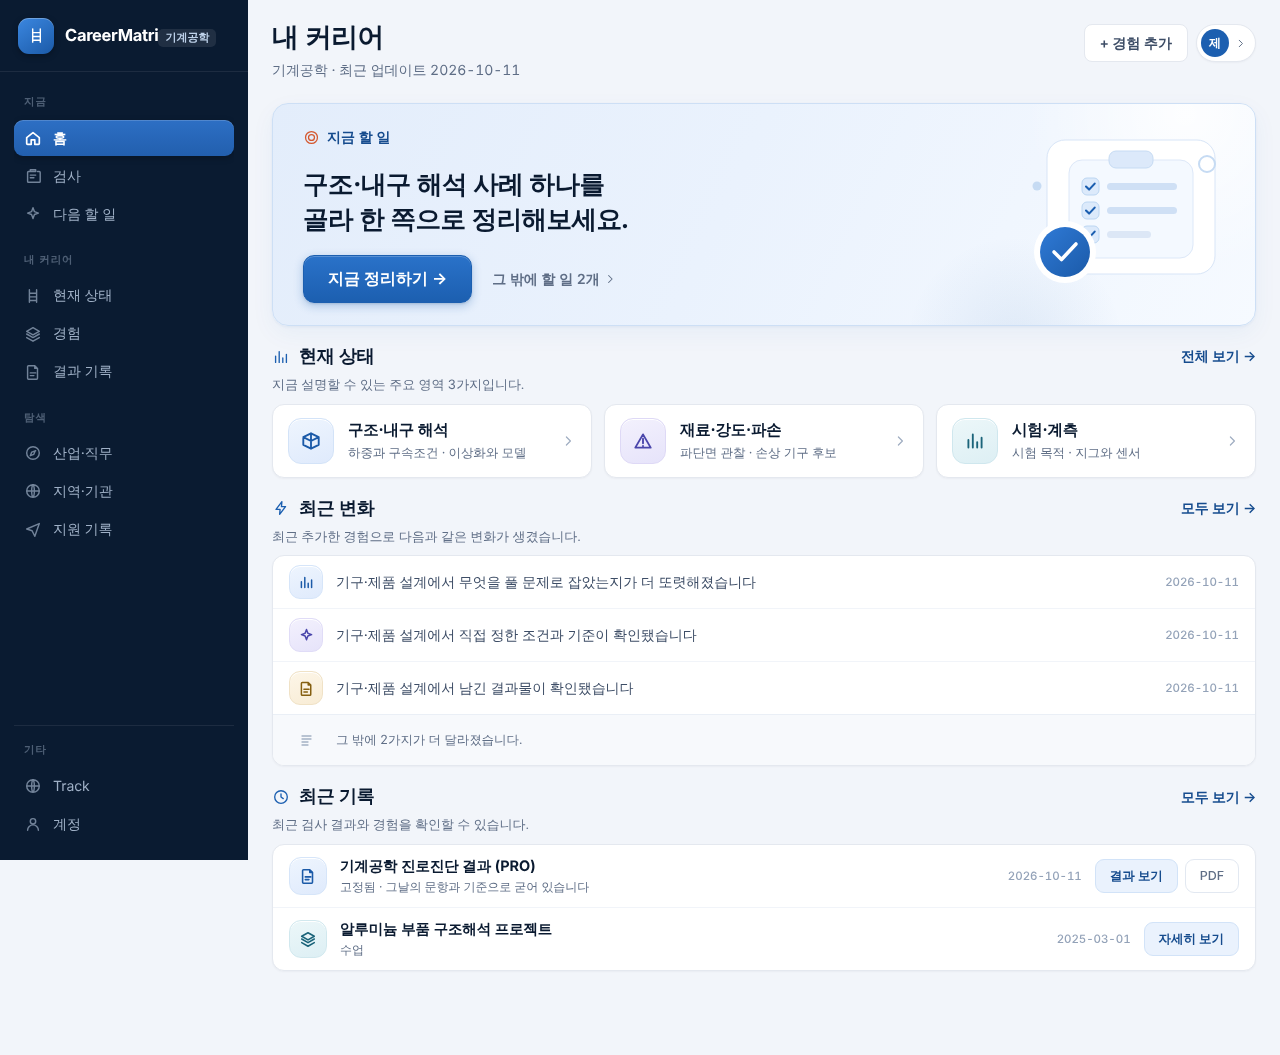
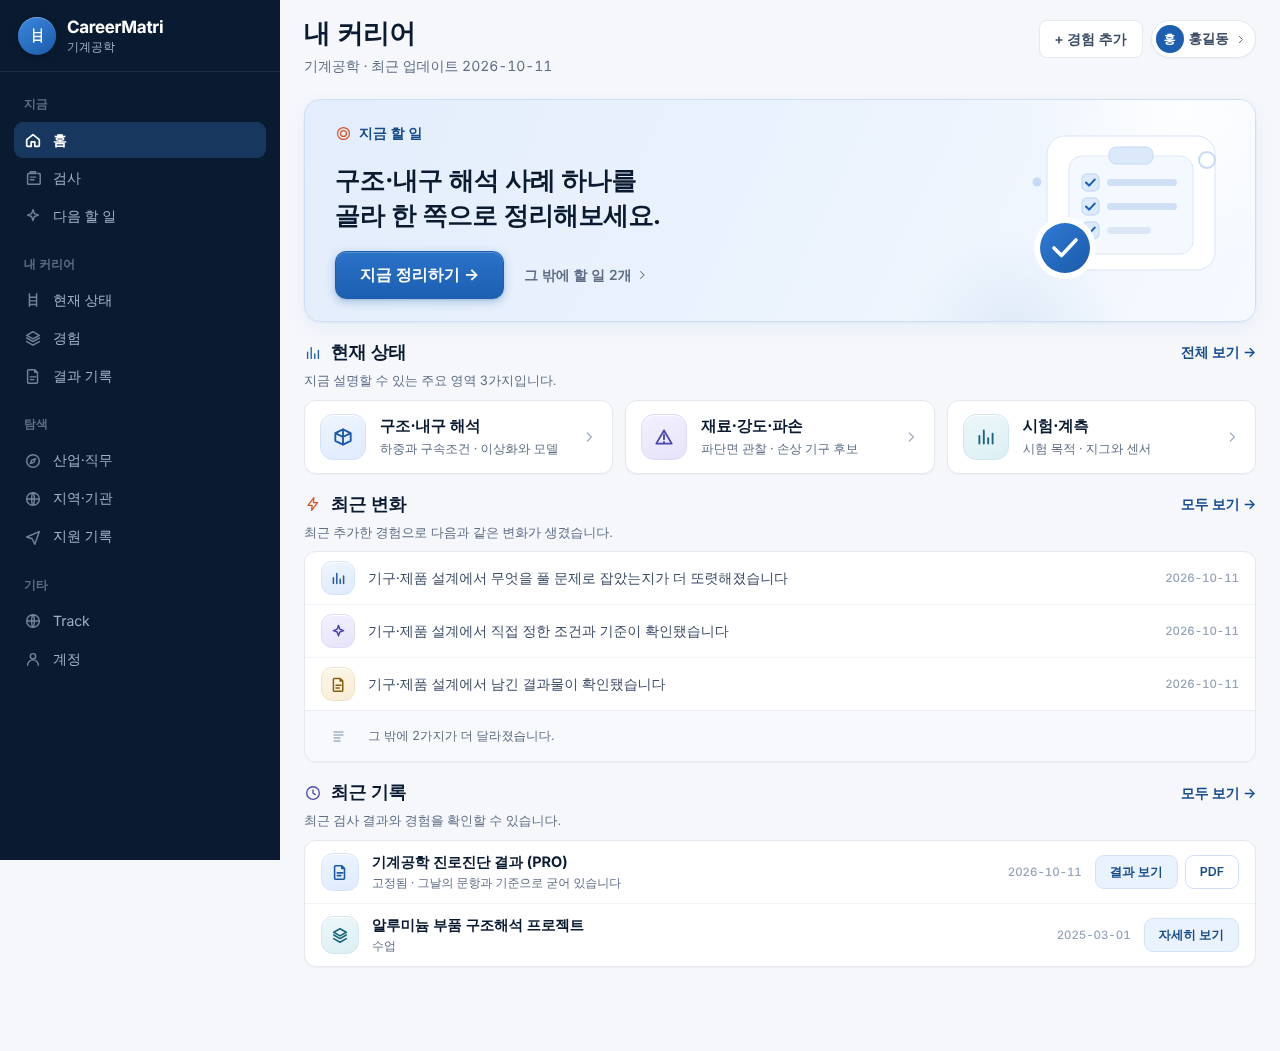
목표 화면과 나란히 놓고 남은 차이 여덟을 걷는다
받은 Reference Desktop 과 현재 Desktop 1440x900 과 Mobile 390 세 장을
나란히 놓고 §1~§19 를 판정한 뒤, PARTIAL/FAIL 로 적힌 자리만 고쳤다.
MATCH 는 한 줄도 건드리지 않았다. 기능·데이터·route·DB 는 그대로다.

- 띠 폭 248 -> 280 (목표는 창 너비의 22% 쯤인데 17% 였다)
- 브랜드 표시를 둥근 사각에서 원으로
- 전공을 알약에서 평범한 작은 글자로. 알약은 상태나 등급을 적는
  모양이라 전공 이름이 거기 들어가면 고를 수 있는 값으로 읽힌다
- 묶음 머리의 대문자 변환과 넓은 자간을 걷었다. 한글에서 대문자
  변환은 아무 일도 하지 않고 넓은 자간만 장식으로 남는다
- 고른 줄을 밝은 파랑 그라디언트에서 한 단 밝은 남색 면으로 바꾸고
  왼쪽 금을 걷었다. 강조색은 누르는 자리에만 둔다
- 맨 아래 묶음을 바닥에 붙이던 규칙과 그 위의 금을 걷었다
- 계정 한 자리에 본인 이름이 선다 (1100 아래에서는 첫 글자만)
- 절 머리의 표시를 셋으로 갈랐다. 셋이 같은 파랑이면 절이 한 묶음으로
  읽힌다. 색은 뜻을 갖지 않는다

그 밖에 바탕을 한 단 밝게, 쪽 머리 위 여백 20 -> 16, 줄 끝의 PDF 를
회색 테에서 옅은 파란 테로, 손전화 Hero 그림 124 -> 106.

찍는 바탕이 만드는 계정 이름이 사람 화면에 그대로 서므로 시험용
이름으로 바꿨다. 목표 화면의 검색칸과 알림 종과 브랜드 펼침은 없는
기능이라 옮기지 않았고, 손전화 아래 띠의 금은 색으로만 말하지 않으려고
남겼다.

판본은 작업공간만 CAREERMATRI_WORKSPACE_UI_V18. 측정 동결과 검사 화면
동결과 결과지 동결은 기록을 다시 적지 않은 채로 통과한다.

Claude-Session: https://claude.ai/code/session_01VsLgPeSsVvvXWmRdQnrgMy

diff --git a/pca-platform/src/app/me/platform.css b/pca-platform/src/app/me/platform.css
@@ -12,7 +12,7 @@
  */
 
 .cm {
-  --cm-rail: 248px;
+  --cm-rail: 280px;
   --cm-max: 1120px;
   --cm-tab: 56px;          /* 손전화 아래 띠의 높이 */
   /**
@@ -38,7 +38,7 @@
    * 바탕을 `--sf-bg` 보다 한 단 더 파랗게 내리면 그 위의 흰 카드가
    * 떠 보이고, 그림자를 거의 쓰지 않고도 깊이가 생긴다.
    */
-  --cm-canvas-bg: #f2f5fa;
+  --cm-canvas-bg: #f5f7fb;
   --cm-card-sh: 0 1px 2px rgba(10, 27, 49, .04);
   min-height: 100%;
   background: var(--cm-canvas-bg);
@@ -90,7 +90,7 @@
    납작한 사각형이 아니라 눌러 만든 조각처럼 선다 */
 .cm-rail-mark {
   display: inline-flex; align-items: center; justify-content: center;
-  width: 36px; height: 36px; flex: 0 0 auto; border-radius: 11px;
+  width: 38px; height: 38px; flex: 0 0 auto; border-radius: 50%;
   background: linear-gradient(145deg, #3b87e0 0%, #1b5aa8 100%);
   color: #fff;
   box-shadow:
@@ -100,19 +100,20 @@
 .cm-rail-mark > svg { width: 19px; height: 19px; }
 .cm-rail-name {
   display: block; min-width: 0;
-  font-weight: 700; font-size: 16.5px; letter-spacing: -.02em;
   color: var(--cm-rail-ink-on); line-height: 1.2;
 }
+.cm-rail-name > b { font-weight: 700; font-size: 17px; letter-spacing: -.02em; }
 /* **지금 어느 전공인지를 띠에 둔다.** 전공이 늘면 이 자리가 고르는
    자리가 된다. 없으면 사용자가 CareerMatri 를 검사 한 벌로 읽는다.
    **이름보다 한 단 아래다**: 둘이 같은 무게면 무엇이 제품 이름인지
    읽히지 않는다 */
+/* **알약으로 두지 않는다**(목표 화면). 알약은 상태나 등급을 적는
+   모양이라 전공 이름이 거기 들어가면 고를 수 있는 값으로 읽힌다.
+   이름 아래에 한 단 작고 옅은 글자로 선다 */
 .cm-rail-name small {
-  display: inline-flex; align-items: center;
-  margin-top: 5px; padding: 2px 7px; border-radius: 5px;
-  background: rgba(255, 255, 255, .09);
-  font-weight: 600; font-size: 11px; letter-spacing: 0;
-  color: #bed2ea;
+  display: block; margin-top: 3px;
+  font-weight: 500; font-size: 12px; letter-spacing: 0;
+  color: var(--cm-rail-ink);
 }
 .cm-rail-scroll {
   flex: 1 1 auto; min-height: 0; overflow-y: auto;
@@ -122,18 +123,20 @@
 /* 마지막 묶음(`기타`)은 **아래로 내린다**(규격 §1). Track 과 계정은
    날마다 누르는 줄이 아니라, 위의 세 묶음과 떨어져 서야 띠가 쌓인
    목록이 아니라 자리가 정해진 틀로 읽힌다 */
-.cm-rail-scroll > .cm-group:last-child {
-  margin-top: auto; padding-top: 16px;
-  border-top: 1px solid var(--cm-rail-line);
-}
+/* **맨 아래 묶음을 바닥에 붙이지 않는다**(목표 화면). 네 묶음이 위에서
+   아래로 이어 서고 남는 자리는 비운다. 바닥에 붙이고 금을 그으면 그
+   둘이 메뉴가 아니라 바닥 도구막대로 읽힌다 */
 
 /* **묶음 이름이 곧 section context 다.** 평평한 아홉 줄은 어디가
    `내 커리어` 인지 읽히지 않는다 */
 .cm-group { display: flex; flex-direction: column; gap: 2px; }
+/* 묶음 머리. **한글을 영문 머리글처럼 늘리지 않는다**(목표 화면):
+   대문자 변환은 한글에서 아무 일도 하지 않고 넓은 자간만 남아, 묶음
+   이름이 읽히는 말이 아니라 장식 띠가 된다 */
 .cm-group > h2 {
   margin: 0 0 7px; padding: 0 10px;
-  font-size: 10.5px; font-weight: 700; letter-spacing: .09em;
-  color: var(--cm-rail-ink); opacity: .45; text-transform: uppercase;
+  font-size: 12px; font-weight: 600; letter-spacing: 0;
+  color: var(--cm-rail-ink); opacity: .55;
 }
 
 /* **빽빽하게 둔다**(규격 §21). 아홉 줄이 한 뼘 안에 들어와야 눈이
@@ -159,18 +162,15 @@ a.cm-nav small {
 a.cm-nav:hover { background: rgba(255, 255, 255, .07); color: var(--cm-rail-ink-on); }
 /* 고른 줄(규격 §1). **면과 글자와 왼쪽 금 셋이 함께 들어간다**: 면만
    두었더니 어두운 바탕에서 그 줄이 눌려 있다는 것이 멀리서 안 읽혔다 */
+/* 고른 줄. **띠 안에서 한 단 밝은 면 하나다**(목표 화면): 강조색으로
+   칠하면 그 줄이 쪽에서 가장 센 자리가 되어 본문의 주된 단추와 겨룬다.
+   강조색은 누르는 자리에만 둔다 */
 a.cm-nav.is-on {
   position: relative;
-  background: linear-gradient(180deg, #2d6fc4 0%, #225fae 100%);
-  color: #fff; font-weight: 600;
-  box-shadow:
-    inset 0 1px 0 rgba(255, 255, 255, .17),
-    0 2px 6px rgba(0, 0, 0, .26);
+  background: #17375f; color: #fff; font-weight: 600;
 }
-a.cm-nav.is-on::before {
-  content: ""; position: absolute; left: -10px; top: 8px; bottom: 8px;
-  width: 3px; border-radius: 0 3px 3px 0; background: #6ea8ef;
-}
+/* **왼쪽 금을 두지 않는다**(목표 화면). 면 하나로 충분하고, 금까지
+   더하면 고른 줄이 둘로 말한다 */
 a.cm-nav.is-on > svg { opacity: 1; stroke-width: 1.9; }
 a.cm-nav.is-on small { color: #fff; opacity: .85; }
 a.cm-nav:focus-visible { outline: 2px solid #fff; outline-offset: 2px; }
@@ -203,12 +203,19 @@ a.cm-nav:focus-visible { outline: 2px solid #fff; outline-offset: 2px; }
   background: var(--sf-accent); color: #fff;
   font-size: var(--ui-t-cap); font-weight: 700;
 }
+/* 이름. **좁은 화면에서는 첫 글자만 남는다**: 1100 아래에서 이름이
+   서면 쪽 머리의 단추를 밀어낸다 */
+.cm-util-me > b {
+  font-size: 13.5px; font-weight: 600; color: var(--sf-ink-2);
+  max-width: 10ch; overflow: hidden; text-overflow: ellipsis;
+}
+@media (max-width: 1100px) { .cm-util-me > b { display: none; } }
 .cm-util-me > svg { color: var(--sf-ink-3); }
 @media (max-width: 900px) { .cm-utilrow { display: none; } }
 
 .cm-canvas {
   flex: 1 1 auto;
-  padding: 20px 24px calc(28px + var(--cm-tab));
+  padding: 16px 24px calc(28px + var(--cm-tab));
 }
 .cm-in { max-width: var(--cm-max); margin: 0 auto; }
 /* 적는 자리(규격 §17). 작업공간 1100 은 견주는 폭이고 폼은 그 폭에서
@@ -265,7 +272,12 @@ a.cm-nav:focus-visible { outline: 2px solid #fff; outline-offset: 2px; }
   margin: 16px 0 0; font-size: 18px; font-weight: 700; color: var(--sf-ink);
   letter-spacing: -.015em;
 }
+/* 절 머리의 표시. **셋이 같은 파랑이면 절이 한 묶음으로 읽힌다**
+   (목표 화면은 절마다 다른 색을 쓴다). 색은 뜻을 갖지 않고 어디가 새
+   묶음의 시작인지만 가리킨다 */
 .cm-sh > svg { flex: 0 0 auto; color: var(--sf-accent); }
+.cm-sh.is-b > svg { color: #d4572e; }
+.cm-sh.is-c > svg { color: #4f4bb0; }
 .cm-sh > a {
   margin-left: auto; font-size: var(--ui-t-sub); font-weight: 600;
   color: var(--sf-accent-ink); text-decoration: none; white-space: nowrap;
@@ -364,7 +376,7 @@ a.cm-nav:focus-visible { outline: 2px solid #fff; outline-offset: 2px; }
      둔다: 끄면 Hero 가 글만 담긴 상자가 되어 첫 화면의 중심이 흐려진다 */
   .cm-hero { display: block; }
   .cm-hero-art { float: right; margin: 2px -4px 10px 12px; }
-  .cm-hero-art svg { width: 124px; height: auto; }
+  .cm-hero-art svg { width: 106px; height: auto; }
   .cm-hero-acts { clear: both; }
 }
 @media (max-width: 1100px) and (min-width: 720px) { .cm-hero-art { display: none; } }
@@ -517,10 +529,10 @@ a.cm-feed-row:hover, .cm-feed > li:hover { background: #fafcfe; }
 /* 한 줄에 단추가 둘이면 **뒤엣것을 한 단 내린다**(규격 §5): 둘이 같은
    면이면 어느 쪽이 그 줄의 주된 길인지 고르는 일이 한 번 더 생긴다 */
 .cm-feed-acts .cm-btn.is-quiet {
-  background: transparent; border-color: #e2e8f1; color: var(--sf-ink-3);
-  font-weight: 500;
+  background: var(--sf-surface); border-color: #cfe0f6; color: var(--sf-accent-ink);
+  font-weight: 600;
 }
-.cm-feed-acts .cm-btn.is-quiet:hover { background: #f4f7fb; border-color: #d3dce8; color: var(--sf-ink-2); }
+.cm-feed-acts .cm-btn.is-quiet:hover { background: #f3f8fe; border-color: #b9d3f0; }
 /* 손전화(규격 §8). **표시와 글이 한 줄에 선다**: 표시를 제 줄에 두면
    줄 하나가 세 줄짜리 카드가 되고, 넷만 쌓여도 훑을 수 없다. 날짜와
    단추만 아래로 내려 글 왼쪽 끝에 맞춘다 */

diff --git a/pca-platform/src/lib/me-v3/workspace-version.ts b/pca-platform/src/lib/me-v3/workspace-version.ts
@@ -61,7 +61,7 @@
  *   들어오는 길이 지금 무엇인지 적지 않으면 구글로 가입하신 분이
  *   비밀번호 찾기를 누르고 메일을 기다린다.
  */
-export const WORKSPACE_UI_VERSION = "CAREERMATRI_WORKSPACE_UI_V17";
+export const WORKSPACE_UI_VERSION = "CAREERMATRI_WORKSPACE_UI_V18";
 
 /**
  * 작업공간에 나가는 한국어. 문장만 바뀌면 이것만 올린다.
@@ -361,4 +361,41 @@ export const WORKSPACE_COPY_VERSION = "careermatri-workspace-copy.12";
  *    서고 날짜가 줄을 새로 연다. 홈이 1,846px 에서 1,617px 이다.
  * 8. 세로 밀도: 1440×900 에서 최근 기록의 첫 줄이 단추까지 선다.
  *    **정보를 줄이지 않았다.**
+ */
+
+/*
+ * `V18` 로 올린 까닭. **목표 화면과 나란히 놓고 남은 차이를 걷었다.**
+ *
+ * 이번에는 목표 Desktop 이미지를 실제로 받아
+ * (`docs/metri/shots/reference/reference-home-desktop.png`) 현재
+ * Desktop 1440×900 과 Mobile 390 을 나란히 놓고 §1~§19 를 판정했다.
+ * MATCH 로 적힌 자리는 한 줄도 건드리지 않았고, 아래 여덟만 고쳤다.
+ * 기능과 데이터와 route 와 DB 는 현재 구현 그대로다.
+ *
+ * 1. 띠 폭 248 → 280. 목표 화면의 띠는 창 너비의 22% 쯤이고 지금은
+ *    17% 였다. 띠가 좁으면 그 줄들이 본문에 붙은 목록으로 읽힌다.
+ * 2. 표시를 둥근 사각에서 **원**으로. 목표 화면의 로고가 원이다.
+ * 3. 전공을 알약에서 **평범한 작은 글자**로. 알약은 상태나 등급을 적는
+ *    모양이라 전공 이름이 거기 들어가면 고를 수 있는 값으로 읽힌다.
+ * 4. 묶음 머리에서 대문자 변환과 넓은 자간을 걷었다. 한글에서 대문자
+ *    변환은 아무 일도 하지 않고 넓은 자간만 남아 장식 띠가 된다.
+ * 5. 고른 줄을 밝은 파랑 그라디언트에서 **한 단 밝은 남색 면**으로
+ *    바꾸고 왼쪽 금을 걷었다. 강조색은 누르는 자리에만 둔다.
+ * 6. 맨 아래 묶음을 바닥에 붙이던 규칙과 그 위의 금을 걷었다. 목표
+ *    화면은 네 묶음이 위에서 아래로 이어 서고 남는 자리를 비운다.
+ * 7. 계정 한 자리에 **본인 이름**이 선다(1100 아래에서는 첫 글자만).
+ *    목표 화면이 표시와 이름과 펼침 셋으로 세운다. 첫 글자 한 자만
+ *    서면 그 자리가 무엇을 여는 자리인지 눌러 보고서야 안다.
+ * 8. 절 머리의 표시를 셋으로 갈랐다. 셋이 같은 파랑이면 절 셋이 한
+ *    묶음으로 읽힌다. 색은 뜻을 갖지 않는다.
+ *
+ * 그 밖에 바탕을 한 단 밝게(#f2f5fa → #f5f7fb) 하고, 쪽 머리 위
+ * 여백을 20 에서 16 으로 줄이고, 줄 끝의 `PDF` 를 회색 테에서 옅은
+ * 파란 테로 올리고(목표 화면은 둘 다 파란 계열이다), 손전화 Hero 의
+ * 그림을 124 에서 106 으로 줄여 큰 글씨가 네 줄에서 세 줄이 됐다.
+ *
+ * **목표 화면을 그대로 옮기지 않은 자리 셋**을 적어 둔다. 검색칸과
+ * 알림 종은 CareerMatri 에 없는 기능이라 두지 않았고, 브랜드 옆의
+ * 펼침 표시는 누르면 아무 일도 없는 자리가 되므로 두지 않았고,
+ * 손전화 아래 띠의 고른 칸 위 금은 색으로만 말하지 않으려고 남겼다.
  */

diff --git a/pca-platform/src/app/me/shell.tsx b/pca-platform/src/app/me/shell.tsx
@@ -48,15 +48,17 @@ function NavRow({ it, active }: { it: typeof CM_NAV[number]; active: string }) {
  * CareerMatri 에는 둘 다 없다. 눌러도 아무 일이 없는 칸을 두면 그것이
  * 가짜 기능이 된다. 지금 실제로 있는 것은 계정 한 자리다.
  *
- * **이름을 적지 않는다.** 로그인한 사람은 자기 이름을 이미 알고, 그
- * 글자가 쪽에서 가장 오른쪽 위에 서면 화면이 **누가 보고 있는지를 적는
- * 관리 도구**로 읽힌다. 서는 것은 첫 글자 한 자와 펼침 표시다.
+ * **목표 화면이 이름을 적는다.** 첫 글자 한 자만 서면 그 자리가 무엇을
+ * 여는 자리인지 눌러 보고서야 알고, 넓은 화면의 오른쪽 위는 계정으로
+ * 들어가는 길이 서는 자리다. 적는 것은 **로그인한 본인의 이름**이고
+ * 지어낸 값이 아니다. 좁은 화면에서는 첫 글자만 남는다.
  */
 function CmUtil({ name }: { name: string }) {
   const initial = name.trim().slice(0, 1) || "나";
   return (
     <Link className="cm-util-me" href="/my" aria-label="계정">
       <span className="cm-util-av" aria-hidden>{initial}</span>
+      <b>{name.trim() || "계정"}</b>
       <Icon name="chev" size={13} />
     </Link>
   );
@@ -103,7 +105,9 @@ export function CmShell({
           `산업·직무` 처럼 같은 자리가 화면마다 다른 이름으로 불린다 */}
       <div className="cm-topbar">
         <Link className="cm-topbar-brand" href="/me">CareerMatri</Link>
-        <span>{CM_NAV.find((n) => navOn(n.href, active))?.label ?? title ?? ""}</span>
+        {/* **지금 자리를 머리띠에 또 적지 않는다**(목표 화면 기준).
+            아래 띠가 그 줄을 켜서 이미 말하고 있고, 머리띠에 한 번 더
+            적으면 띠가 이름표 두 개를 든 웹사이트 머리글로 읽힌다 */}
         {/* **없는 기능을 그려 넣지 않는다**(규격 §9). 목표 화면의 알림
             자리에 서는 것은 실제로 열리는 계정 한 자리다 */}
         {who ? (
@@ -122,7 +126,7 @@ export function CmShell({
                 만들지 않고, 띠에 이미 쓰는 아이콘 하나를 면에 얹는다 */}
             <span className="cm-rail-mark" aria-hidden><Icon name="ladder" size={17} /></span>
             <span className="cm-rail-name">
-              CareerMatri
+              <b>CareerMatri</b>
               <small>{MAJOR}</small>
             </span>
           </Link>

diff --git a/pca-platform/scripts/_loop-fixture.ts b/pca-platform/scripts/_loop-fixture.ts
@@ -90,7 +90,10 @@ export async function makeStudent(login: string): Promise<{ id: string; pw: stri
   const row = await queryOne<{ id: string }>(
     `INSERT INTO users (login_id, email, display_name, password_hash,
                         status, locale, is_demo, must_reset_pw)
-     VALUES ($1,$1,'제품 루프 점검',$2,'active','ko',TRUE,FALSE) RETURNING id::text`,
+     /* **사람 이름 자리에 검사 이름을 적지 않는다.** 이 값은 쪽 머리의
+        계정 한 자리에 그대로 서고, 거기 검사 이름이 서면 찍은 그림에서
+        손님 화면이 내부 도구로 읽힌다. 지어낸 시험용 이름 하나다*/
+     VALUES ($1,$1,'홍길동',$2,'active','ko',TRUE,FALSE) RETURNING id::text`,
     [login, await hashPassword(pw)]);
   await query(
     `INSERT INTO memberships (user_id, org_id, role) VALUES ($1, NULL, 'student')

diff --git a/pca-platform/src/app/me/page.tsx b/pca-platform/src/app/me/page.tsx
@@ -356,7 +356,7 @@ export default async function Home() {
           {/* ── 최근 변화 (규격 §7) ── 줄 중심. 줄마다 카드를 만들지 않는다 */}
           {st.stage === "RECOMPUTED" || st.pending > 0 ? (
             <>
-              <h2 className="cm-sh">
+              <h2 className="cm-sh is-b">
                 <Icon name="bolt" size={18} />
                 최근 변화
                 <Link href="/me/state#changes">모두 보기 →</Link>
@@ -415,7 +415,7 @@ export default async function Home() {
           ) : null}
 
           {/* ── 최근 기록 (규격 §8) ── 굳은 결과 하나와 최근 경험 둘까지 */}
-          <h2 className="cm-sh">
+          <h2 className="cm-sh is-c">
             <Icon name="clock" size={18} />
             최근 기록
             <Link href="/me/results">모두 보기 →</Link>

diff --git a/pca-platform/CLAUDE.md b/pca-platform/CLAUDE.md
@@ -6045,3 +6045,64 @@ iPhone Safari 실기기 확인이 남아 있다. **Home 만 고쳤다**: 다른 
 화면으로 넓히지 않았다. DB 스키마를 한 줄도 바꾸지 않았으므로
 마이그레이션은 필요 없고, 고친 것이 전부 이미지 안으로 들어가는 파일이라
 **재배포가 먼저다.**
+
+---
+
+**목표 화면을 받아 나란히 놓고 남은 차이를 걷었다.** (2026-10-11)
+
+네 번 비어 왔던 목표 UI 이미지가 저장소로 들어왔다
+(`docs/metri/shots/reference/reference-home-desktop.png`). 그래서 이번
+회차는 처음으로 **세 장을 실제로 나란히 놓고** 판정했다: 목표 Desktop ·
+현재 Desktop 1440×900 · 현재 Mobile 390. 판정이 끝나기 전에는 코드를
+고치지 않았고, MATCH 로 적힌 자리는 한 줄도 건드리지 않았다. 측정은
+`ME_V3_MEASUREMENT_FREEZE_1` 에 그대로 머물고 검사 화면과 결과지 동결도
+**기록을 다시 적지 않은 채로** 통과한다.
+
+**고친 것은 여덟이다.** 띠 폭 248 → 280(목표 화면의 띠가 창 너비의 22%
+쯤인데 17% 였다) · 표시를 둥근 사각에서 원으로 · 전공을 알약에서 평범한
+작은 글자로 · 묶음 머리에서 대문자 변환과 넓은 자간을 걷고 · 고른 줄을
+밝은 파랑 그라디언트에서 한 단 밝은 남색 면으로 바꾸고 왼쪽 금을 걷고 ·
+맨 아래 묶음을 바닥에 붙이던 규칙과 그 위의 금을 걷고 · 계정 한 자리에
+본인 이름을 세우고 · 절 머리의 표시를 셋으로 갈랐다.
+
+**알약은 상태나 등급을 적는 모양이다.** 전공 이름이 거기 들어가면 고를
+수 있는 값으로 읽힌다. 목표 화면은 이름 아래에 한 단 작고 옅은 글자로
+적는다.
+
+**강조색은 누르는 자리에만 둔다.** 고른 줄을 밝은 파랑으로 칠하면 그
+줄이 쪽에서 가장 센 자리가 되어 본문의 주된 단추와 겨룬다. 목표 화면의
+고른 줄은 띠 안에서 한 단 밝은 남색 면 하나이고, 왼쪽 금도 없다. 면
+하나로 충분하고 금까지 더하면 고른 줄이 둘로 말한다.
+
+**바닥에 붙이고 금을 그으면 메뉴가 아니라 바닥 도구막대로 읽힌다.**
+목표 화면은 네 묶음이 위에서 아래로 이어 서고 남는 자리를 비운다.
+
+**첫 글자 한 자만 서면 그 자리가 무엇을 여는 자리인지 눌러 보고서야
+안다.** 계정 한 자리에 본인 이름을 세웠고(1100 아래에서는 첫 글자만),
+적는 값은 로그인한 사람의 이름이지 지어낸 값이 아니다.
+
+**사람 이름 자리에 검사 이름을 적지 않는다.** 찍는 바탕이 만드는 계정의
+이름이 `제품 루프 점검` 이어서 쪽 머리에 그대로 섰다. 그 값은 손님
+화면에 서는 값이라, 거기 검사 이름이 있으면 찍은 그림에서 제품이 내부
+도구로 읽힌다. 시험용 이름 하나로 바꿨다.
+
+**목표 화면을 그대로 옮기지 않은 자리 셋을 적어 둔다.** 검색칸과 알림
+종은 CareerMatri 에 없는 기능이라 두지 않았고, 브랜드 옆의 펼침 표시는
+누르면 아무 일도 없는 자리가 되므로 두지 않았고, 손전화 아래 띠의 고른
+칸 위 금은 색으로만 말하지 않으려고 남겼다.
+
+**Hero 의 까닭 한 줄은 자료가 정한다.** 목표 화면에는 큰 글씨 아래 옅은
+설명 한 줄이 있고 `.cm-hero-why` 가 그 자리인데, 찍는 바탕의 할 일에
+걸리는 빈자리가 없어 이번 그림에서는 서지 않았다. 지어내지 않았다.
+
+판본은 작업공간만 올랐다: `CAREERMATRI_WORKSPACE_UI_V18`. **문장 판본은
+올리지 않는다**: 화면에 서는 글자가 한 줄도 바뀌지 않았다. 문항 은행과
+판단 규칙과 결과 모델과 검사 화면과 결과지 화면도 그대로다.
+
+**아직 아닌 것.** 네트워크 정책이 `app.careermatri.com:443` 을 막아
+**운영 배포본을 밖에서 한 번도 열지 못했다**(HTTP 000). 이번 회차의
+판정은 `REFERENCE COMPARISON COMPLETE / OWNER REVIEW REQUIRED` 이고
+**`PASS` 와 `COMMERCIAL READY` 를 적지 않는다.** iPhone Safari 실기기
+확인이 남아 있다. **Home 만 고쳤다**: 다른 작업공간 화면으로 넓히지
+않았다. DB 스키마를 한 줄도 바꾸지 않았으므로 마이그레이션은 필요 없고,
+고친 것이 전부 이미지 안으로 들어가는 파일이라 **재배포가 먼저다.**
